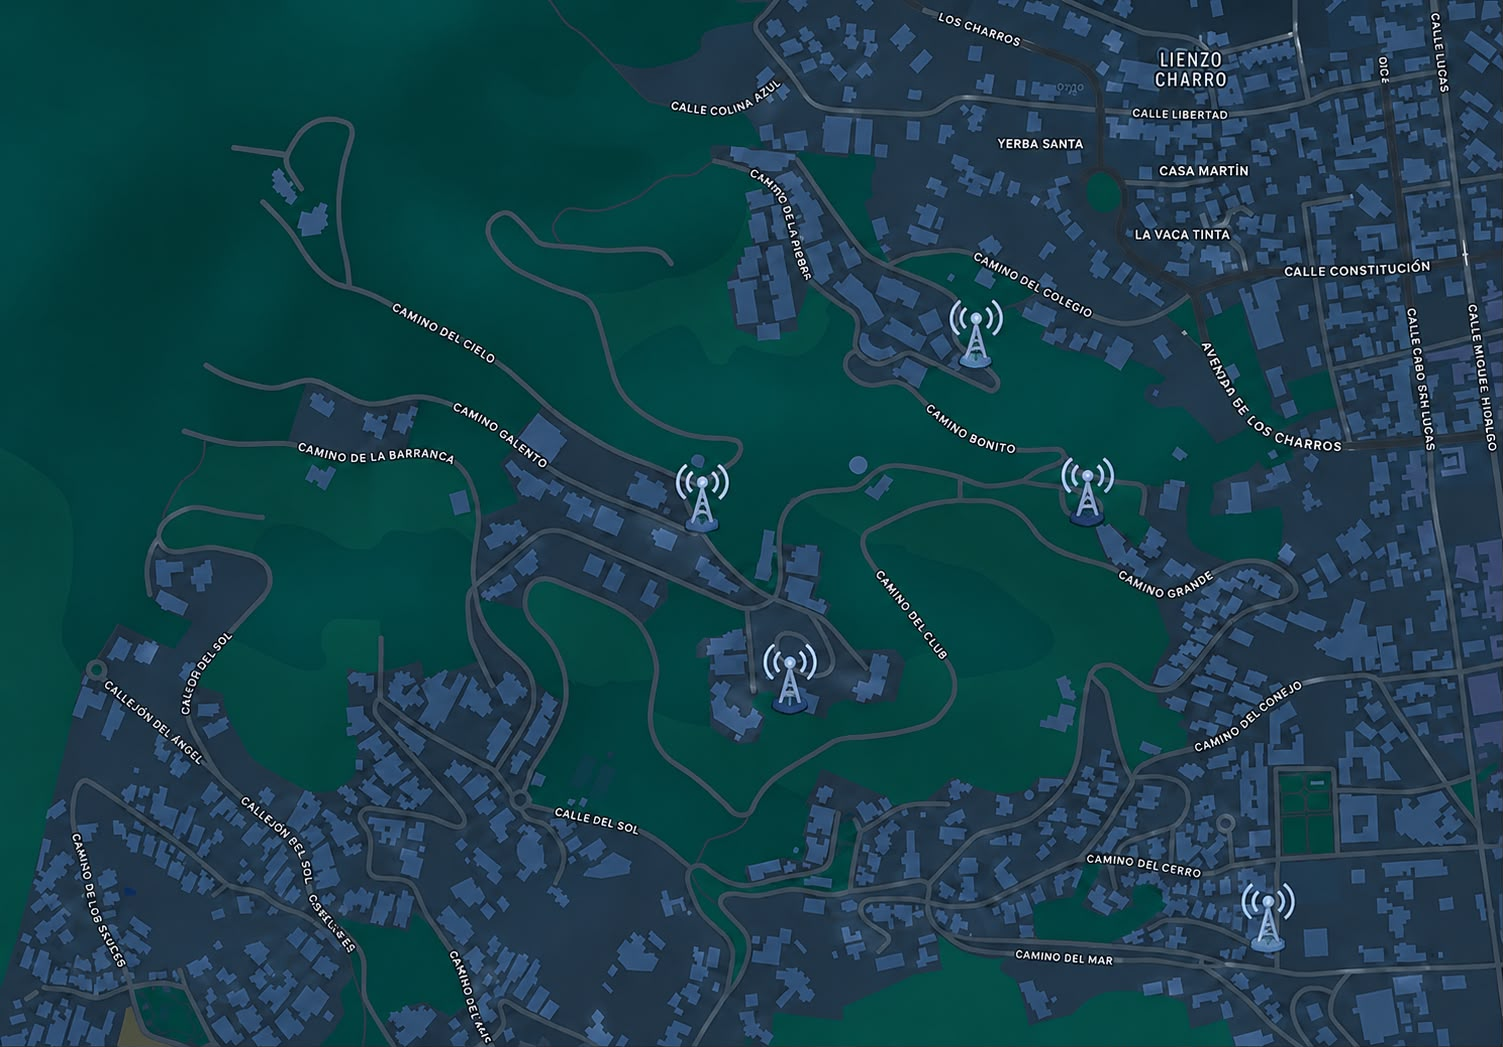
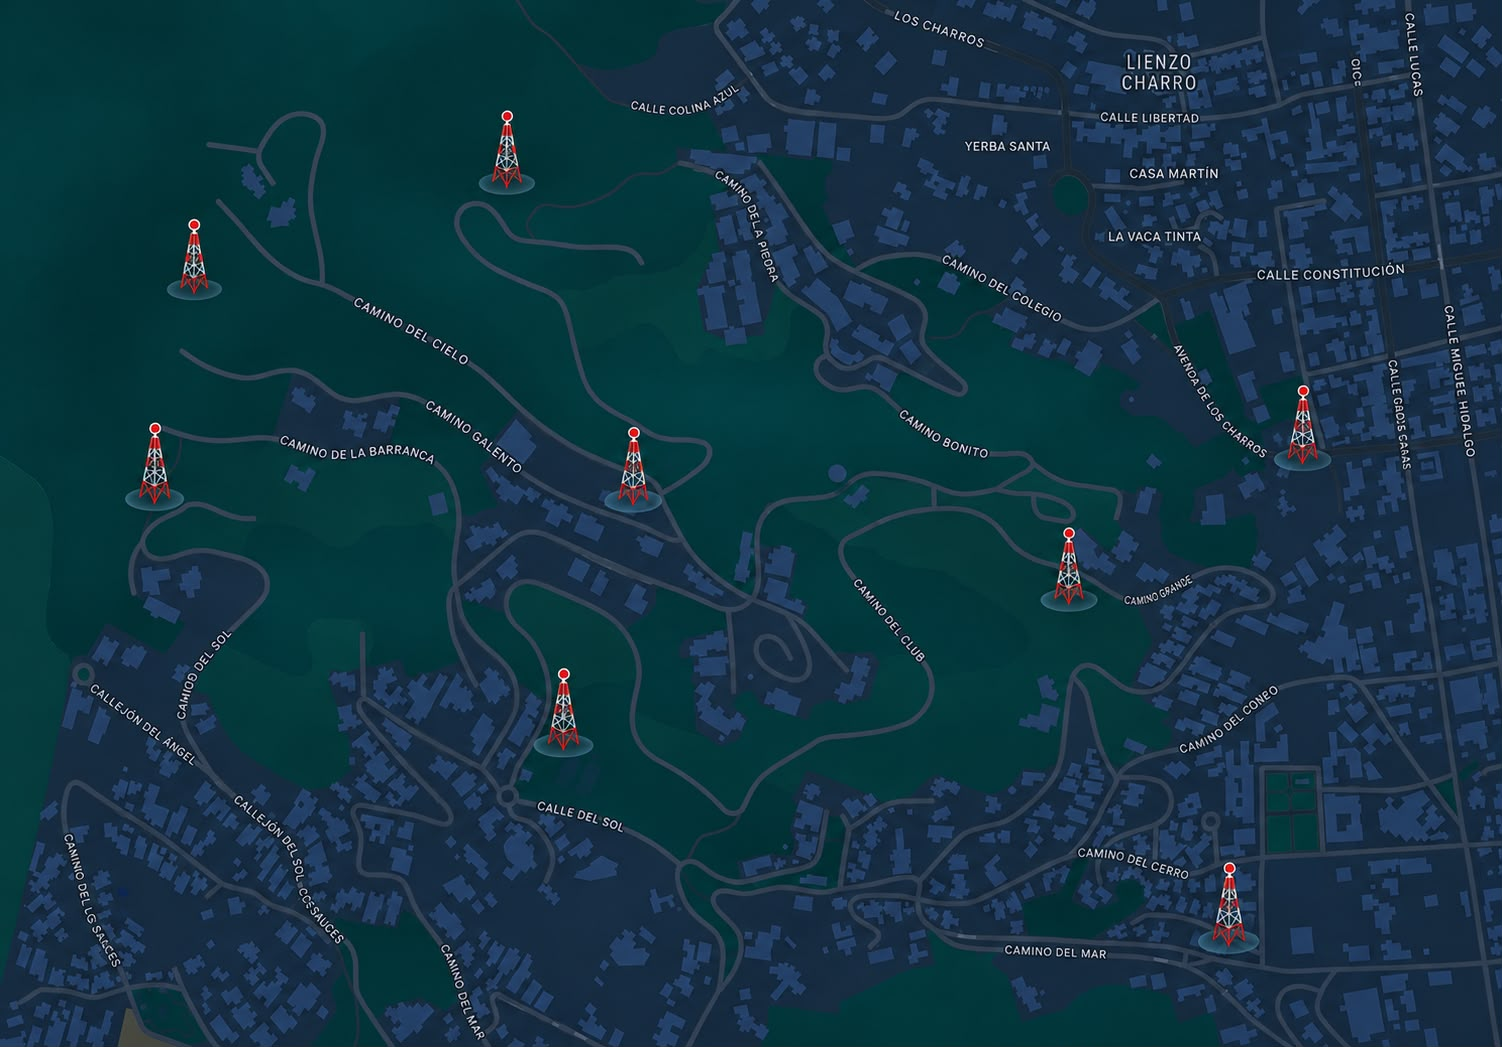
cambio redes mapa

Changed region(s): [[0.0, 0.0, 1.0, 1.0], [0.3063, 0.1223, 0.4288, 0.2751], [0.3675, 0.0611, 0.3981, 0.0917]]

diff --git a/frontend/src/App.jsx b/frontend/src/App.jsx
@@ -68,79 +68,79 @@ const MAP_NODE_POINTS = [
     key: "seis",
     label: "Seis",
     channel: "red",
-    x: 8.4,
-    y: 25.4,
-    cloudX: 7.4,
-    cloudY: 18.8,
+    x: 14.1,
+    y: 27.4,
+    cloudX: 8.2,
+    cloudY: 19.1,
   },
   {
     key: "cinco",
     label: "Cinco",
     channel: "red",
-    x: 22.4,
-    y: 22.1,
-    cloudX: 21.0,
-    cloudY: 15.4,
+    x: 34.8,
+    y: 18.5,
+    cloudX: 31.8,
+    cloudY: 10.2,
   },
   {
     key: "marilu",
     label: "Marilu",
     channel: "red",
-    x: 7.4,
-    y: 37.8,
-    cloudX: 5.1,
-    cloudY: 31.8,
+    x: 11.5,
+    y: 48.2,
+    cloudX: 6.9,
+    cloudY: 39.5,
   },
   {
     key: "pacifico",
     label: "Pacifica",
     channel: "red",
-    x: 40.4,
-    y: 61.1,
-    cloudX: 39.0,
-    cloudY: 67.9,
+    x: 39.3,
+    y: 70.0,
+    cloudX: 40.1,
+    cloudY: 76.2,
   },
   {
     key: "falcone",
     label: "Falcone",
     channel: "telcel",
-    x: 46.4,
-    y: 50.6,
-    cloudX: 43.6,
-    cloudY: 47.0,
+    x: 43.8,
+    y: 47.7,
+    cloudX: 46.3,
+    cloudY: 42.8,
   },
   {
     key: "cuadrada",
     label: "Cuadrada",
     channel: "telcel",
-    x: 72.4,
-    y: 48.0,
-    cloudX: 72.4,
-    cloudY: 55.2,
+    x: 73.2,
+    y: 57.6,
+    cloudX: 68.8,
+    cloudY: 52.0,
   },
   {
     key: "cabo_viejo",
     label: "Caboviejo",
     channel: "broker",
-    x: 82.7,
-    y: 36.8,
-    cloudX: 80.0,
-    cloudY: 31.0,
+    x: 87.8,
+    y: 43.5,
+    cloudX: 84.5,
+    cloudY: 35.9,
   },
   {
     key: "planta",
     label: "Planta",
     channel: "broker",
-    x: 81.0,
-    y: 88.4,
-    cloudX: 85.4,
-    cloudY: 86.0,
+    x: 83.2,
+    y: 91.1,
+    cloudX: 86.0,
+    cloudY: 83.8,
   },
 ];
 const MAP_RELAY_POINT = {
   label: "Antena",
-  x: 61.9,
-  y: 43.6,
+  x: 59.7,
+  y: 49.8,
 };
 const MAP_NETWORK_ROUTES = [
   {
@@ -149,14 +149,16 @@ const MAP_NETWORK_ROUTES = [
     shortLabel: "Desde CV",
     className: "map-route--cv",
     points: [
-      [82.6, 36.9],
-      [72.2, 47.2],
-      [61.6, 42.6],
-      [46.0, 49.5],
-      [80.1, 87.8],
+      [86.6, 41.8],
+      [72.0, 53.8],
+      [60.2, 48.2],
+      [42.2, 44.6],
+      [52.8, 55.2],
+      [67.1, 70.2],
+      [81.2, 86.6],
     ],
-    labelX: 57.0,
-    labelY: 44.2,
+    labelX: 59.0,
+    labelY: 46.2,
   },
   {
     key: "antennaFromPlanta",
@@ -164,14 +166,16 @@ const MAP_NETWORK_ROUTES = [
     shortLabel: "Desde Planta",
     className: "map-route--planta",
     points: [
-      [83.6, 38.0],
-      [73.0, 49.0],
-      [62.5, 44.8],
-      [47.2, 51.4],
-      [81.5, 89.3],
+      [88.2, 43.7],
+      [73.4, 57.0],
+      [61.6, 52.4],
+      [43.8, 48.2],
+      [57.7, 63.7],
+      [70.8, 78.2],
+      [83.3, 88.9],
     ],
-    labelX: 62.0,
-    labelY: 52.6,
+    labelX: 63.6,
+    labelY: 58.2,
   },
 ];
 
@@ -2462,7 +2466,6 @@ function MapNetworkNode({ node, online }) {
       style={{ left: `${node.x}%`, top: `${node.y}%` }}
       title={`${node.label}: ${online ? "en linea" : "sin conexion"}`}
     >
-      <span className="network-node__ring" />
       <span className="network-node__status" />
       <span className="network-node__label">{node.label}</span>
     </div>

diff --git a/frontend/src/App.css b/frontend/src/App.css
@@ -425,7 +425,7 @@ button {
 .map-frame {
   position: relative;
   width: 100%;
-  aspect-ratio: 1536 / 1005;
+  aspect-ratio: 1502 / 1047;
   min-height: 520px;
   overflow: hidden;
   background: #163047;
@@ -641,7 +641,7 @@ button {
 }
 
 .map-board--visual {
-  width: min(100%, max(720px, calc(152.84vh - 290px)));
+  width: min(100%, max(720px, calc(143.46vh - 260px)));
   margin: 0 auto;
 }
 
@@ -853,40 +853,34 @@ button {
 .network-node {
   position: absolute;
   z-index: 7;
-  width: 34px;
-  height: 34px;
+  min-height: 24px;
+  padding: 4px 7px;
+  border: 1px solid rgba(255, 255, 255, 0.22);
+  border-radius: 8px;
+  background: rgba(11, 26, 42, 0.76);
+  box-shadow: 0 8px 16px rgba(5, 13, 24, 0.26);
+  backdrop-filter: blur(7px);
+  display: inline-flex;
+  align-items: center;
+  gap: 6px;
   transform: translate(-50%, -50%);
   pointer-events: auto;
+  white-space: nowrap;
 }
 
-.network-node__ring {
-  position: absolute;
-  inset: 4px;
-  border-radius: 50%;
-  border: 3px solid #ff5a66;
-  background: rgba(12, 27, 43, 0.56);
-  box-shadow:
-    0 8px 16px rgba(5, 13, 24, 0.34),
-    0 0 0 4px rgba(255, 90, 102, 0.12);
+.network-node--offline {
+  background: rgba(36, 45, 56, 0.72);
+  border-color: rgba(190, 199, 209, 0.18);
 }
 
 .network-node__status {
-  position: absolute;
-  right: 2px;
-  bottom: 2px;
-  width: 11px;
-  height: 11px;
+  flex: 0 0 auto;
+  width: 10px;
+  height: 10px;
   border-radius: 999px;
-  border: 2px solid #eef5fb;
+  border: 1px solid rgba(238, 245, 251, 0.92);
   background: #57df75;
   box-shadow: 0 0 0 5px rgba(87, 223, 117, 0.14);
-}
-
-.network-node--offline .network-node__ring {
-  border-color: #9aa4af;
-  box-shadow:
-    0 8px 16px rgba(5, 13, 24, 0.28),
-    0 0 0 4px rgba(154, 164, 175, 0.12);
 }
 
 .network-node--offline .network-node__status {
@@ -894,7 +888,18 @@ button {
   box-shadow: 0 0 0 5px rgba(154, 164, 175, 0.14);
 }
 
-.network-node__label,
+.network-node__label {
+  color: #f7fbff;
+  font-size: 12px;
+  font-weight: 900;
+  line-height: 1;
+  text-shadow: 0 1px 1px rgba(0, 0, 0, 0.5);
+}
+
+.network-node--offline .network-node__label {
+  color: #c8d0d9;
+}
+
 .map-relay__label {
   position: absolute;
   left: 50%;
@@ -903,7 +908,7 @@ button {
   padding: 3px 7px;
   border-radius: 8px;
   background: rgba(12, 27, 43, 0.68);
-  color: #ffb4ba;
+  color: #d8d0ff;
   font-size: 12px;
   font-weight: 900;
   line-height: 1;
@@ -911,10 +916,6 @@ button {
   text-shadow: 0 1px 1px rgba(0, 0, 0, 0.5);
   box-shadow: 0 8px 14px rgba(5, 12, 24, 0.2);
   backdrop-filter: blur(6px);
-}
-
-.network-node--offline .network-node__label {
-  color: #c8d0d9;
 }
 
 .map-relay {
@@ -943,10 +944,6 @@ button {
   box-shadow:
     0 9px 18px rgba(5, 13, 24, 0.28),
     0 0 0 8px rgba(162, 171, 182, 0.13);
-}
-
-.map-relay__label {
-  color: #d8d0ff;
 }
 
 .map-relay--offline .map-relay__label {
@@ -2427,15 +2424,15 @@ button {
     top: -8px;
   }
 
-  .network-node,
   .map-relay {
     width: 26px;
     height: 26px;
   }
 
-  .network-node__ring {
-    inset: 3px;
-    border-width: 2px;
+  .network-node {
+    min-height: 20px;
+    padding: 3px 5px;
+    gap: 4px;
   }
 
   .network-node__status {
@@ -2444,7 +2441,10 @@ button {
     border-width: 1px;
   }
 
-  .network-node__label,
+  .network-node__label {
+    font-size: 9px;
+  }
+
   .map-relay__label {
     top: 25px;
     padding: 3px 5px;